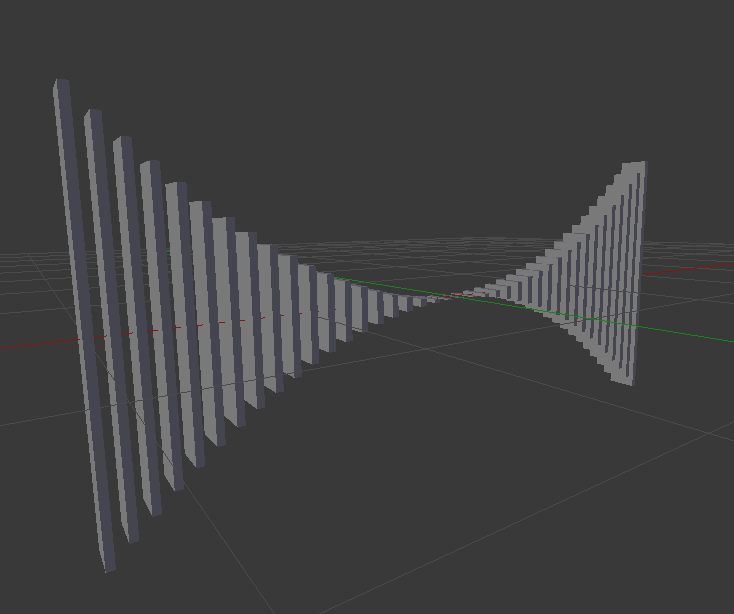
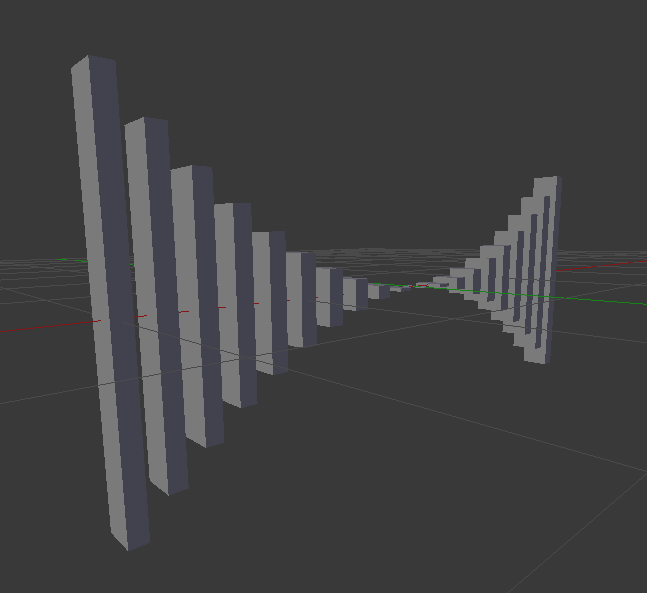
A few minor modifications to make the scripts run a little faster
Creating 40x40 objects took a fair amount of time. It's not clear where
the time was being used, but this 20x20 version is much faster.

Changed region(s): [[0.0, 0.0911, 0.9583, 0.941], [0.9892, 0.425, 1.0, 0.4553], [0.9583, 0.5464, 0.9892, 0.5767]]

diff --git a/scripting/simple_geometry_scripting.rst b/scripting/simple_geometry_scripting.rst
@@ -14,7 +14,8 @@ CellBlender's geometry (model objects) can be created a number of ways:
     * Using Blender's native geometry commands in a script
     * Using CellBlender's data model in a script
 
-This tutorial demonstrates the last of these options to construct a variable sized box.
+This tutorial demonstrates the last of these options to construct a variable sized box, and
+eventually rows and grids of variable sized boxes.
 
 Start with an empty scene (no objects, cameras, or lamps), and with CellBlender initialized.
 Also open a text editor window and create a new text file named "box.py".
@@ -325,10 +326,10 @@ Then we can create any kind of loop to add new boxes to that list. Let's try thi
 
 ::
 
-    for i in range(40):
-      x = (i-20) / 10.0
+    for i in range(20):
+      x = (i-10) / 5.0
       sz = x * x / 4
-      objlist.append ( make_box ( "Cube"+str(i), x, 0.0, 0.0, 0.02, 0.1, sz ) )
+      objlist.append ( make_box ( "Cube"+str(i), x, 0.0, 0.0, 0.05, 0.1, sz ) )
 
 The full script should look like this:
 
@@ -374,10 +375,10 @@ The full script should look like this:
 
     objlist = dm['mcell']['geometrical_objects']['object_list']
 
-    for i in range(40):
-      x = (i-20) / 10.0
+    for i in range(20):
+      x = (i-10) / 5.0
       sz = x * x / 4
-      objlist.append ( make_box ( "Cube"+str(i), x, 0.0, 0.0, 0.02, 0.1, sz ) )
+      objlist.append ( make_box ( "Cube"+str(i), x, 0.0, 0.0, 0.05, 0.1, sz ) )
 
     cb.replace_data_model ( dm )
 
@@ -385,17 +386,17 @@ That should produce a geometry that looks like this:
 
 .. image:: ./images/parabolic_bars.png
 
-With just a few more lines of code we can include variation in both x and y:
+With just a few more lines of code inside the "for loop" we can include variation in both x and y:
 
 ::
 
-    for i in range(40):
-      x = (i-20) / 10.0
-      for j in range(40):
-        y = (j-20) / 10.0
+    for i in range(20):
+      x = (i-10) / 5.0
+      for j in range(20):
+        y = (j-10) / 5.0
         sz = (x * x / 4) + (y * y * y / 10.0)
         name = "Cube_"+str(i)+"_"+str(j)
-        objlist.append ( make_box ( name, x, y, 0.0, 0.02, 0.02, sz ) )
+        objlist.append ( make_box ( name, x, y, 0.0, 0.05, 0.05, sz ) )
 
 That should produce a geometry that looks like this:
 
